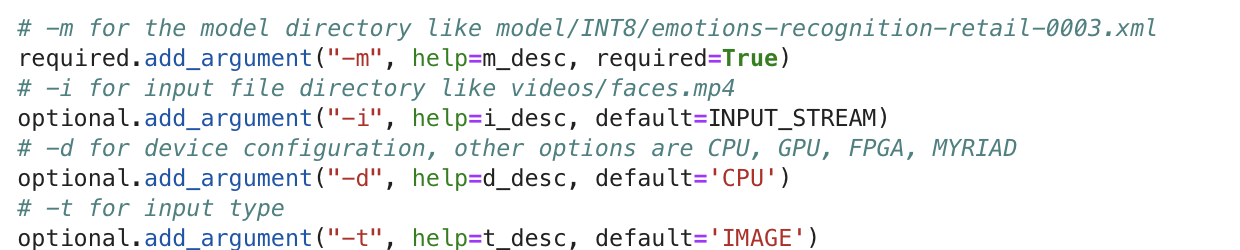
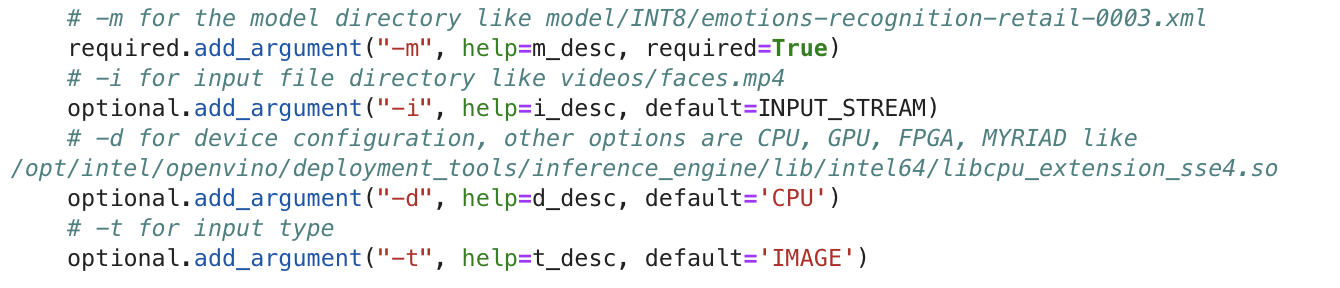
Update
Adding comment and output for Image mode

Changed region(s): [[0.0, 0.028, 0.95, 1.0]]

diff --git a/app.py b/app.py
@@ -4,8 +4,8 @@ import numpy as np
 from inference import Network
 
 #INPUT_STREAM = "pets.mp4"
-INPUT_STREAM = "faces1.mp4"
-#INPUT_STREAM = "images/happy.png"
+#INPUT_STREAM = "faces1.mp4"
+INPUT_STREAM = "images/happy.png"
 CPU_EXTENSION = "/opt/intel/openvino/deployment_tools/inference_engine/lib/intel64/libcpu_extension_sse4.so"
 EXPRESSION = ['NEUTRAL', 'HAPPY', 'SAD', 'SURPRISE', 'ANGER']
 
@@ -44,10 +44,17 @@ def get_args():
     optional = parser.add_argument_group('optional arguments')
     
     # -- Create the arguments
+    
+    # -m for the model directory like model/INT8/emotions-recognition-retail-0003.xml 
     required.add_argument("-m", help=m_desc, required=True)
+    # -i for input file directory like videos/faces.mp4
     optional.add_argument("-i", help=i_desc, default=INPUT_STREAM)
+    # -d for device configuration, other options are CPU, GPU, FPGA, MYRIAD like /opt/intel/openvino/deployment_tools/inference_engine/lib/intel64/libcpu_extension_sse4.so
     optional.add_argument("-d", help=d_desc, default='CPU')
-    optional.add_argument("-t", help=t_desc, default='VIDEO')
+    # -t for input type 
+    optional.add_argument("-t", help=t_desc, default='IMAGE')
+    
+    
     args = parser.parse_args()
 
     return args
@@ -73,8 +80,15 @@ def infer_on_image(args):
     if plugin.wait() == 0:
         result = plugin.extract_output()
         ### TODO: Process the output
-        print(result)
-        
+        index = 0
+        cur = result[0][0][0][0]
+        for x in range(1,5):
+            if cur < result[0][x][0][0]:
+                cur = result[0][x][0][0]
+                index = x
+        print('Detected '  + EXPRESSION[index])
+        cv2.putText(frame, EXPRESSION[index], (10,450), cv2.FONT_HERSHEY_SIMPLEX, 3, (0, 255, 0), 2, cv2.LINE_AA)
+        cv2.imwrite('output_image.jpg', frame)
         
     cv2.destroyAllWindows()
     
@@ -95,7 +109,7 @@ def infer_on_video(args):
     cap.open(args.i)
     width = int(cap.get(3))
     height = int(cap.get(4))
-    out = cv2.VideoWriter('out.mp4', 0x00000021, 60, (width,height))
+    out = cv2.VideoWriter('video_output.mp4', 0x00000021, 60, (width,height))
     it = 0
     prev_index = -1
     # Process frames until the video ends, or process is exited
